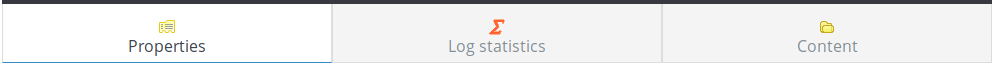
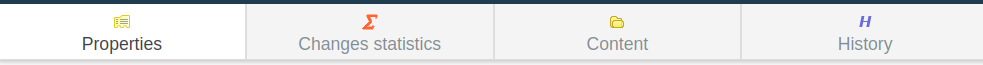
Documentation: refine the chapter about the Emaj_web usage. Refresh all existing screenshots and adjust some textual explanations. Add a paragraph about the recently added tables group history tab.

diff --git a/docs/fr/webUsage.rst b/docs/fr/webUsage.rst
@@ -17,7 +17,7 @@ Située à gauche, l'arborescence de navigation offre la visibilité de toutes l
 
 	Figure 1 – Arborescence de navigation.
 
-Les deux icônes en bas et à droite permettent d’ajuster la largeur du l’arborescence de navigation.
+Les deux icônes en bas et à droite (non visible ici) permettent d’ajuster la largeur de l’arborescence de navigation.
 
 Liste des groupes de tables
 ---------------------------
@@ -44,8 +44,9 @@ Pour chaque groupe de tables créé, sont affichés les attributs suivants :
 
 Pour chaque groupe également, plusieurs boutons sont proposés afin de pouvoir effectuer les actions que son état autorise.
 
-Trois boutons en bas de page permettent de créer un nouveau groupe de tables, d’exporter ou d’importer une configuration de groupes de tables vers ou à partir d’un fichier local.
+En dessous, trois boutons permettent de créer un nouveau groupe de tables, d’exporter ou d’importer une configuration de groupes de tables vers ou à partir d’un fichier local.
 
+Enfin, est affiché la liste des groupes de tables qui ont été supprimés.
 
 Quelques détails de l'interface utilisateur
 -------------------------------------------
@@ -72,9 +73,9 @@ Deux barres d'icônes permettent de naviguer dans les différentes fonctions d'E
 
 Pour les rôles de type *emaj_viewer*, certaines icônes ne sont pas visibles.
 
-Sur certains tableaux, il est possible de trier en dynamique les lignes affichées à l'aide de petites flèches verticales situées à droite des titres de colonnes. 
+Sur la plupart des tableaux, il est possible de trier en dynamique les lignes affichées à l'aide de petites flèches verticales situées à droite des titres de colonnes. 
 
-Sur certains tableaux également, une icône à gauche de la ligne de titre fait apparaître ou disparaître des champs de saisie permettant le filtrage des lignes affichées.
+Sur la plupart des tableaux également, une icône à gauche de la ligne de titre fait apparaître ou disparaître des champs de saisie permettant le filtrage des lignes affichées.
 
 .. figure:: images/emajweb_filter.png
    :align: center
@@ -104,11 +105,11 @@ Cette ligne est suivie par l'éventuel commentaire associé au groupe.
  
 Puis une série de boutons permet de réaliser les actions que l'état du groupe permet.
 
-L'utilisateur trouve ensuite un tableau des marques positionnées pour le groupe. Pour chacune d'elles, on trouve :
+L'utilisateur trouve ensuite un tableau des marques positionnées pour le groupe, les plus récentes étant en haut de tableau.  Pour chacune d'elles, on trouve :
 
 * son nom,
 * sa date et son heure de pose,
-* son état (actif ou non, protégé contre les rollbacks ou non),
+* son état protégé contre les rollbacks ou non,
 * le nombre de lignes de log enregistrées entre cette marque et la suivante (ou la situation courante s'il s'agit de la dernière marque),
 * le nombre total de lignes de log enregistrées depuis que la marque a été posée,
 * l'éventuel commentaire associé à la marque.
@@ -123,8 +124,8 @@ L'onglet « *Statistiques / Mises à jour* » de la barre des groupes permet d
 Trois types de statistiques peuvent être obtenues :
 
 * une estimation du nombre de mises à jour pour chaque table,
-* un dénombrement précis du nombre de mises à jour enregistrées, par table, type de requête (*INSERT/UPDATE/DELETE/TRUNCATE*) et rôle,
-* une estimation du nombre d’incréments et des changements de structure pour chaque séquence.
+* une estimation du nombre d’incréments et des changements de structure pour chaque séquence,
+* un dénombrement précis du nombre de mises à jour enregistrées, par table, type de requête (*INSERT/UPDATE/DELETE/TRUNCATE*) et rôle.
 
 La figure suivante montre un exemple de statistiques détaillées pour les tables.
 
@@ -135,7 +136,12 @@ La figure suivante montre un exemple de statistiques détaillées pour les table
 
 La page restituée contient une première ligne contenant des compteurs globaux.
 
-Sur chacune des lignes du tableau de statistiques, un bouton « *SQL* » permet à l'utilisateur de visualiser facilement le contenu des mises à jour enregistrées dans les tables de log. Un clic sur ce bouton ouvre une fenêtre de paramétrage de la requête SQL à générer. Celle-ci est ensuite affichée dans l'éditeur de requêtes SQL pour modification éventuelle par l’utilisateur avant exécution, afin, par exemple, de cibler davantage les lignes qui l'intéressent.
+Sur chacune des lignes du tableau de statistiques, un bouton permet à l'utilisateur de visualiser facilement le contenu des mises à jour enregistrées dans les tables de log. Un clic sur ce bouton ouvre une fenêtre de paramétrage de la requête SQL à générer. Celle-ci est ensuite affichée dans l'éditeur de requêtes SQL pour modification éventuelle avant exécution. Cela peut permettre à l’utilisateur de cibler davantage les lignes qui l'intéressent.
+
+.. figure:: images/emajweb_changesform.png
+   :align: center
+
+   Figure 8 – Formulaire de génération des requêtes de consultation des changements 
 
 Contenu d'un groupe de tables
 -----------------------------
@@ -147,8 +153,17 @@ Pour chaque table du groupe, le tableau affiché reprend ses propriétés E-Maj,
 .. figure:: images/emajweb_groupcontent.png
    :align: center
 
-   Figure 8 – Contenu d'un groupe de tables.
+   Figure 9 – Contenu d'un groupe de tables.
 
+Historique des groupes de tables
+--------------------------------
+
+L’onglet « *Historique* » permet de visualiser les périodes durant lesquelles un groupe de tables existe, ainsi que celles durant lesquelles le groupe est démarré (les *sessions de log*). La profondeur d’historique conservé dépend du paramètre *history_retention*.
+
+.. figure:: images/emajweb_grouphistory.png
+   :align: center
+
+   Figure 10 – Historique d'un groupe de tables.
 
 Schémas et configuration des groupes de tables
 ----------------------------------------------
@@ -162,7 +177,7 @@ Pour chaque liste, on trouve les propriétés E-Maj et quelques caractéristique
 .. figure:: images/emajweb_schemas.png
    :align: center
 
-   Figure 9 – Contenu des schémas et configuration des groupes de tables.
+   Figure 11 – Contenu des schémas et configuration des groupes de tables.
 
 Triggers
 --------
@@ -174,7 +189,7 @@ Un bouton permet de changer le mode de désactivation lors des rollbacks E-Maj.
 .. figure:: images/emajweb_triggers.png
    :align: center
 
-   Figure 10 – Liste des triggers applicatifs
+   Figure 12 – Liste des triggers applicatifs
 
 
 Suivi des opérations de rollback
@@ -191,7 +206,7 @@ Pour chaque rollback tracé consolidable listé, un bouton permet d’exécuter 
 .. figure:: images/emajweb_rollbacks.png
    :align: center
 
-   Figure 11 – Suivi des opérations de rollback.
+   Figure 13 – Suivi des opérations de rollback.
 
 En cliquant sur un identifiant de rollback dans l’un de ces tableaux, on accède à une page présentant des informations détaillées sur le déroulement en cours ou passé de l’opération sélectionnée.
 
@@ -200,24 +215,24 @@ On y trouve plus précisément des données concernant :
 * les propriétés du rollback,
 * sa progression,
 * le rapport final restitué à l’utilisateur, quand l’opération est terminée,
-* et le détail de la planification de l’opération, montrant chaque étape élémentaire, avec notamment sa durée, et optionnellement les estimations initiales calculées par E-Maj.
+* le détail de la planification de l’opération, montrant chaque étape élémentaire, avec notamment sa durée, et optionnellement les estimations initiales calculées par E-Maj,
+* et les informations relatives à la ou aux sessions de rollback.
 
 .. figure:: images/emajweb_rollbackdetails.png
    :align: center
 
-   Figure 12 – Détails d’une opération de rollback.
+   Figure 14 – Détails d’une opération de rollback.
 
 État de l'environnement E-Maj
 -----------------------------
 
 En sélectionnant l’onglet « *E-Maj* » de la barre principale, l'utilisateur accède à une synthèse de l'état de l'environnement E-Maj.
 
-Sont d'abord restitués :
-
-* les versions de PostgreSQL et d'E-Maj installées,
-* la place disque occupée par E-Maj (tables de log, tables techniques et index associés) et la part que cela représente dans la taille globale de la base de données.
+Sont d'abord restitués les versions de PostgreSQL et d'E-Maj installées.
 
 Lorsque l’utilisateur est connecté avec un rôle "*superuser*", des boutons permettent, en fonction du contexte, de créer, mettre à jour ou supprimer l’extension *emaj*.
+
+Ensuite sont affichés : la place disque occupée par E-Maj (tables de log, tables techniques et index associés) et la part que cela représente dans la taille globale de la base de données.
 
 Puis l'intégrité de l'environnement est testé ; le résultat de l'exécution de la fonction :ref:`emaj_verify_all() <emaj_verify_all>` est affiché.
 
@@ -228,4 +243,4 @@ Deux boutons en bas de page permettent d’exporter ou d’importer une configur
 .. figure:: images/emajweb_emaj.png
    :align: center
 
-   Figure 13 – État de l'environnement E-Maj 
+   Figure 15 – État de l'environnement E-Maj 

diff --git a/docs/en/webUsage.rst b/docs/en/webUsage.rst
@@ -8,7 +8,7 @@ Accessing Emaj_web in a browser displays the welcome page.
 
 To sign in to a database, select the target instance in the left browser or in the *servers* tab, and fill the connection identifier and password. Several connections can remain opened simultaneously.
 
-Once connected to a database where the emaj extension has been installed, the user interacts with the extension, depending on the role it owns (*super-user*, *emaj_adm* or *emaj_viewer*).
+Once connected to a database where the *emaj* extension has been installed, the user interacts with the extension, depending on the role it owns (*super-user*, *emaj_adm* or *emaj_viewer*).
 
 On the left, the browser tree shows all the configured instances, that may be split into instances groups, and all the databases they contain. By unfolding a database object, the user reaches the E-Maj tables groups and the existing schemas.
 
@@ -17,7 +17,7 @@ On the left, the browser tree shows all the configured instances, that may be sp
 
 	Figure 1 – The browser tree.
 
-Both icons located at the bottom-right allow to adjust the browser width.
+Both icons located at the bottom-right (not visible here) allow to adjust the browser width.
 
 Tables groups list
 ------------------
@@ -44,7 +44,9 @@ For each created tables group, the following attributes are displayed:
 
 For each tables group, several buttons are available so that the user can perform any possible action, depending on the group state.
 
-At the bottom of the page, three buttons allow to create a new tables group, to export or import a tables groups configuration to or from a local file.
+Below, three buttons allow to create a new tables group, to export or import a tables groups configuration to or from a local file.
+
+Lastly, a list of dropped tables groups is displayed.
 
 Some details about the user interface
 -------------------------------------
@@ -71,9 +73,9 @@ The user can navigate in Emaj_web functions using two icon bars: one for the gen
 
 For *emaj_viewer* roles, some icons are not visible.
 
-On some tables, it is possible to dynamically sort displayed rows, using small vertical arrows on the right of column titles.
+On most tables, it is possible to dynamically sort displayed rows, using small vertical arrows on the right of column titles.
 
-On some tables too, an icon located at the left of the header row, let show or hide input fields that can be used to dynamically filter displayed rows.
+On most tables too, an icon located at the left of the header row, let show or hide input fields that can be used to dynamically filter displayed rows.
 
 .. figure:: images/emajweb_filter.png
    :align: center
@@ -102,11 +104,11 @@ This line is followed by the group's comment, if any has been recorded for this 
 
 Next is a set of buttons to execute actions depending on the group's state.
 
-Then, the user can see the list of all marks that have been set on the group. For each of them, the following is displayed:
+Then, the user can see the list of all marks that have been set on the group, the most recent being ahead. For each of them, the following is displayed:
 
 * its name,
 * the date and time it has been set,
-* its state (active or not, protected against rollback or not),
+* its protected against rollback state,
 * the number of recorded log rows between this mark and the next one (or the current state if this is the last set mark),
 * the total number of recorded log rows from when the mark was set,
 * the comment associated to the mark, if it exists.
@@ -122,8 +124,8 @@ Using the "*Changes statistics*" tab of the group’s bar, one gets statistics a
 Three types of statistics can be produced:
 
 * a number of changes estimate for each table,
-* a precise numbering of changes per table, statement type (INSERT/UPDATE/DELETE/TRUNCATE) and role,
-* a number of increments estimate and properties changes per sequence.
+* a number of increments estimate and properties changes per sequence,
+* a precise numbering of changes per table, statement type (INSERT/UPDATE/DELETE/TRUNCATE) and role.
 
 The figure below shows an example of detailed statistics for tables.
 
@@ -134,7 +136,12 @@ The figure below shows an example of detailed statistics for tables.
 
 The displayed page contains a first line returning global counters.
 
-On each line of the statistics table, the user can click on a "*SQL*" button to easily look at the log tables content. A click on this button opens a window to set the SQL generation parameters. Then, the generated SQL statement is displayed into the SQL editor window, so that the user can adjust it before execution to better fit his needs.
+On each line of the statistics table, the user can click on a button to easily look at the log tables content. A click on this button opens a window to set the SQL generation parameters. Then, the generated SQL statement is displayed into the SQL editor window, so that the user can adjust it before execution to better fit his needs.
+
+.. figure:: images/emajweb_changesform.png
+   :align: center
+
+   Figure 8 – Form to generate the SQL statement displaying table changes
 
 Tables group content
 --------------------
@@ -146,8 +153,17 @@ For each table belonging to the group, the displayed sheet shows its E-Maj chara
 .. figure:: images/emajweb_groupcontent.png
    :align: center
 
-   Figure 8 – A tables group's content.
+   Figure 9 – A tables group's content.
 
+Tables group history
+--------------------
+
+The “*History*” tab displays the periods of time when the tables group exists and the periods of time when the group is in *LOGGING* state (*log sessions*). The historical depth depends on the *history_retention* parameter.
+
+.. figure:: images/emajweb_grouphistory.png
+   :align: center
+
+Figure 10 – A tables group’s history.
 
 Schemas and tables groups configuration
 ---------------------------------------
@@ -161,7 +177,7 @@ For both lists, the E-Maj properties and some general properties of each object 
 .. figure:: images/emajweb_schemas.png
    :align: center
 
-   Figure 9 – Schema content and tables groups configuration.
+   Figure 11 – Schema content and tables groups configuration.
 
 
 Triggers
@@ -174,7 +190,7 @@ A button allows to switch their de-activation mode at E-Maj rollback time.
 .. figure:: images/emajweb_triggers.png
    :align: center
 
-   Figure 10 – Application triggers list.
+   Figure 12 – Application triggers list.
 
 Monitoring rollback operations
 ------------------------------
@@ -190,7 +206,7 @@ For each consolidable rollback, a button allows to effectively consolidate the o
 .. figure:: images/emajweb_rollbacks.png
    :align: center
 
-   Figure 11 – Rollback operations monitoring.
+   Figure 13 – Rollback operations monitoring.
 
 Clicking on a rollback identifier in one of these tables displays a page that shows information details about the selected in progress or completed operation.
 
@@ -199,26 +215,26 @@ More precisely, are displayed:
 * the rollback properties,
 * its progress,
 * the final report returned to the user, when the operation is completed,
-* and the detail of the operation plan, showing each elementary step, with its duration and optionaly estimates computed by E-Maj at the operation initialisation.
+* the detail of the operation plan, showing each elementary step, with its duration and optionaly estimates computed by E-Maj at the operation initialisation,
+* and information about rollback sessions.
 
 .. figure:: images/emajweb_rollbackdetails.png
    :align: center
 
-   Figure 12 – Details of a Rollback operation.
+   Figure 14 – Details of a Rollback operation.
 
 E-Maj environment state
 -----------------------
 
 By selecting the "*E-Maj*" tab of the main bar, the user reaches an overview of the E-Maj environment state.
 
-First, some items are displayed:
-
-* the installed PostgreSQL and E-Maj versions,
-* the disk space used by E-Maj (log tables, technical tables and their indexes), and the part of the global database space it represents.
+First, the installed PostgreSQL and E-Maj versions are displayed.
 
 If the user is connected with a "*superuser*" role, some buttons allow to create, update or drop the *emaj* extension, depending on the context.
 
-Then, the environment integrity is checked; the result of the :ref:`emaj_verify_all() <emaj_verify_all>` function execution is displayed.
+Then the disk space used by E-Maj (log tables, technical tables and their indexes), and the part of the global database space it represents are displayed.
+
+Next, the environment integrity is checked; the result of the :ref:`emaj_verify_all() <emaj_verify_all>` function execution is displayed.
 
 The page ends with a list of the extension parameters value, be they present in the *emaj_param table* or set to their default value.
 
@@ -227,4 +243,4 @@ Two buttons allow to export and import parameters configurations to or from a lo
 .. figure:: images/emajweb_emaj.png
    :align: center
 
-   Figure 13 – The E-Maj environment state.
+   Figure 15 – The E-Maj environment state.
